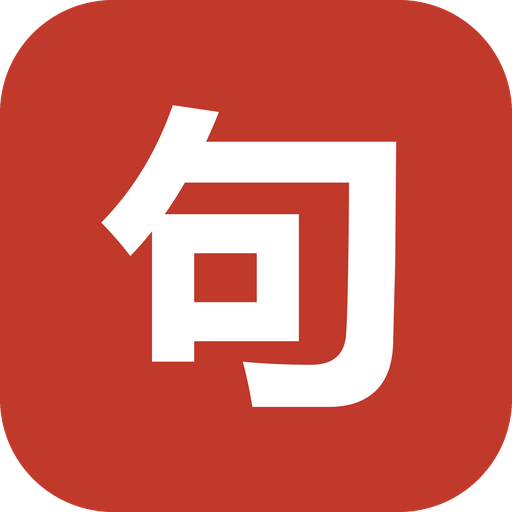
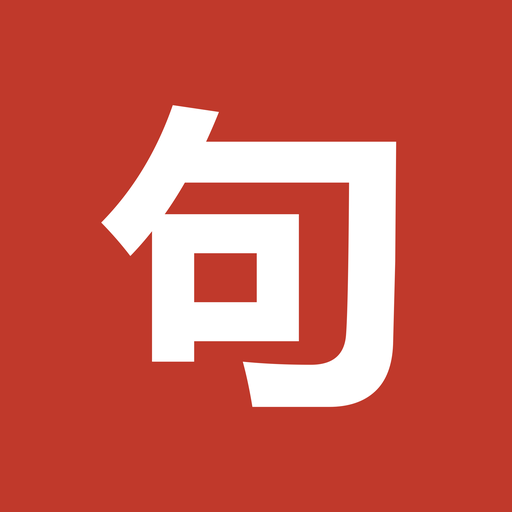
Make the website an installable, offline-capable web app
- Web app manifest, home-screen icons and iOS meta tags for a full-screen launch
- Service worker caches the app shell and built files (network first for pages,
  cache first for hashed assets) and works under the /Dargos-Ju/ Pages path;
  not registered inside the Android app
- Stay signed in offline when the access token has expired
- "Install on your iPhone" hint for Safari users

diff --git a/public/sw.js b/public/sw.js
@@ -1,0 +1,93 @@
+// Offline support for the website / home-screen app (not used inside the Android app).
+//
+// - Pages: network first, falling back to the cached app shell when offline.
+// - Built files (./assets/*, hashed and never change): cache first.
+// - Everything else on this site (icons, dictionary): cache first, filled on use.
+// - Supabase and other sites are never cached; the app keeps progress in IndexedDB and syncs
+//   queued reviews itself when the connection returns.
+//
+// When a new version of the app shell is fetched, its assets are cached and assets from older
+// versions are deleted.
+
+const CACHE = 'dargos-ju-v1';
+const SHELL = './';
+
+const assetUrls = (html) =>
+  [...html.matchAll(/(?:src|href)="(\.\/assets\/[^"]+)"/g)].map((m) => new URL(m[1], self.registration.scope).href);
+
+async function cacheShell(response) {
+  const cache = await caches.open(CACHE);
+  const html = await response.clone().text();
+  const wanted = assetUrls(html);
+  await cache.put(new URL(SHELL, self.registration.scope).href, response);
+  await Promise.all(
+    wanted.map(async (url) => {
+      if (!(await cache.match(url))) {
+        const res = await fetch(url);
+        if (res.ok) await cache.put(url, res);
+      }
+    }),
+  );
+  // Drop built files that the current version no longer uses.
+  const keep = new Set(wanted);
+  for (const req of await cache.keys()) {
+    if (req.url.includes('/assets/') && !keep.has(req.url)) await cache.delete(req);
+  }
+}
+
+self.addEventListener('install', (event) => {
+  event.waitUntil(
+    (async () => {
+      const res = await fetch(new URL(SHELL, self.registration.scope).href, { cache: 'no-cache' });
+      if (res.ok) await cacheShell(res);
+      const cache = await caches.open(CACHE);
+      await cache.addAll(['./manifest.webmanifest', './icon.svg', './icon-192.png', './apple-touch-icon.png']).catch(() => undefined);
+      await self.skipWaiting();
+    })(),
+  );
+});
+
+self.addEventListener('activate', (event) => {
+  event.waitUntil(
+    (async () => {
+      for (const key of await caches.keys()) if (key !== CACHE) await caches.delete(key);
+      await self.clients.claim();
+    })(),
+  );
+});
+
+self.addEventListener('fetch', (event) => {
+  const req = event.request;
+  if (req.method !== 'GET') return;
+  const url = new URL(req.url);
+  if (url.origin !== self.location.origin) return;
+
+  if (req.mode === 'navigate') {
+    event.respondWith(
+      (async () => {
+        try {
+          const res = await fetch(req, { cache: 'no-cache' });
+          if (res.ok) event.waitUntil(cacheShell(res.clone()));
+          return res;
+        } catch {
+          const cached = await caches.match(new URL(SHELL, self.registration.scope).href);
+          return cached ?? Response.error();
+        }
+      })(),
+    );
+    return;
+  }
+
+  event.respondWith(
+    (async () => {
+      const cached = await caches.match(req);
+      if (cached) return cached;
+      const res = await fetch(req);
+      if (res.ok && res.type === 'basic') {
+        const cache = await caches.open(CACHE);
+        cache.put(req, res.clone());
+      }
+      return res;
+    })(),
+  );
+});

diff --git a/src/lib/auth.ts b/src/lib/auth.ts
@@ -1,6 +1,7 @@
 import { useEffect, useState } from 'react';
 import type { Session } from '@supabase/supabase-js';
 import { supabase } from './supabase';
+import { SUPABASE_URL } from '../config';
 import { clearUser, loadUser } from './store';
 import { pullRemote, pushPending } from './sync';
 import { loadRemoteContent } from './content';
@@ -9,6 +10,21 @@ export interface AuthState {
   status: 'loading' | 'signed-out' | 'signed-in';
   session: Session | null;
   isAdmin: boolean;
+}
+
+/**
+ * The session saved on this device, even if its access token has expired. Used offline: Supabase
+ * can't refresh an expired token without a connection and would otherwise report "signed out".
+ */
+function storedSession(): Session | null {
+  try {
+    const key = `sb-${new URL(SUPABASE_URL).hostname.split('.')[0]}-auth-token`;
+    const raw = localStorage.getItem(key);
+    const s = raw ? (JSON.parse(raw) as Session) : null;
+    return s?.user?.id ? s : null;
+  } catch {
+    return null;
+  }
 }
 
 async function checkAdmin(userId: string): Promise<boolean> {
@@ -49,8 +65,10 @@ export function useAuth(): AuthState {
         .then((isAdmin) => setState((s) => ({ ...s, isAdmin })))
         .catch(() => undefined);
     };
-    supabase.auth.getSession().then(({ data }) => apply(data.session));
-    const { data: sub } = supabase.auth.onAuthStateChange((_event, session) => {
+    supabase.auth.getSession().then(({ data, error }) => apply(data.session ?? (error && (error.name === 'AuthRetryableFetchError' || !navigator.onLine) ? storedSession() : null)));
+    const { data: sub } = supabase.auth.onAuthStateChange((event, session) => {
+      // Offline token refreshes fail without signing out; keep studying with the saved session.
+      if (!session && event !== 'SIGNED_OUT' && currentUser) return;
       // Defer so Supabase's internal lock is released before we query.
       setTimeout(() => apply(session), 0);
     });

diff --git a/src/components/InstallHint.tsx b/src/components/InstallHint.tsx
@@ -1,0 +1,45 @@
+import { useState } from 'react';
+import { Capacitor } from '@capacitor/core';
+
+const KEY = 'dj:install-hint-dismissed';
+
+function isIosSafariTab(): boolean {
+  if (Capacitor.isNativePlatform()) return false;
+  const ua = navigator.userAgent;
+  const ios = /iPhone|iPad|iPod/.test(ua) || (ua.includes('Macintosh') && navigator.maxTouchPoints > 1);
+  const standalone = (navigator as Navigator & { standalone?: boolean }).standalone === true || matchMedia('(display-mode: standalone)').matches;
+  return ios && !standalone;
+}
+
+/** Tells iPhone and iPad users in Safari how to add the app to their home screen. */
+export default function InstallHint() {
+  const [hidden, setHidden] = useState(() => {
+    try {
+      return localStorage.getItem(KEY) === '1' || !isIosSafariTab();
+    } catch {
+      return !isIosSafariTab();
+    }
+  });
+  if (hidden) return null;
+  const dismiss = () => {
+    try {
+      localStorage.setItem(KEY, '1');
+    } catch {
+      /* private mode */
+    }
+    setHidden(true);
+  };
+  return (
+    <div className="banner" style={{ background: 'var(--surface-2)' }}>
+      <div className="spread" style={{ alignItems: 'flex-start' }}>
+        <div>
+          <strong>Install on your iPhone</strong>
+          <div className="small" style={{ marginTop: 2 }}>
+            Tap the Share button <span aria-hidden>⎋</span> in Safari, then <strong>Add to Home Screen</strong>. It opens full screen and works offline.
+          </div>
+        </div>
+        <button className="btn ghost sm" onClick={dismiss} aria-label="Dismiss">✕</button>
+      </div>
+    </div>
+  );
+}

diff --git a/index.html b/index.html
@@ -3,8 +3,16 @@
   <head>
     <meta charset="UTF-8" />
     <meta name="viewport" content="width=device-width, initial-scale=1.0, viewport-fit=cover" />
-    <meta name="theme-color" content="#b23a2e" />
+    <meta name="theme-color" content="#c0392b" />
+    <meta name="description" content="Learn Chinese one sentence at a time." />
     <link rel="icon" href="./icon.svg" type="image/svg+xml" />
+    <link rel="manifest" href="./manifest.webmanifest" />
+    <!-- iPhone / iPad home screen app -->
+    <link rel="apple-touch-icon" href="./apple-touch-icon.png" />
+    <meta name="apple-mobile-web-app-capable" content="yes" />
+    <meta name="mobile-web-app-capable" content="yes" />
+    <meta name="apple-mobile-web-app-title" content="Dargos Ju" />
+    <meta name="apple-mobile-web-app-status-bar-style" content="default" />
     <title>Dargos Ju</title>
   </head>
   <body>

diff --git a/src/main.tsx b/src/main.tsx
@@ -1,8 +1,16 @@
 import { StrictMode } from 'react';
 import { createRoot } from 'react-dom/client';
 import { HashRouter } from 'react-router-dom';
+import { Capacitor } from '@capacitor/core';
 import App from './App';
 import './styles.css';
+
+// Offline support for the website and home-screen app. The Android app bundles its files already.
+if (import.meta.env.PROD && 'serviceWorker' in navigator && !Capacitor.isNativePlatform()) {
+  window.addEventListener('load', () => {
+    navigator.serviceWorker.register('./sw.js').catch((e) => console.warn('Offline support unavailable', e));
+  });
+}
 
 createRoot(document.getElementById('root')!).render(
   <StrictMode>

diff --git a/src/pages/Study.tsx b/src/pages/Study.tsx
@@ -5,6 +5,7 @@ import { updateSettings, useStore } from '../lib/store';
 import { studyCounts } from '../lib/srs';
 import { streak } from '../lib/stats';
 import LevelPicker from '../components/LevelPicker';
+import InstallHint from '../components/InstallHint';
 import type { Settings } from '../types';
 
 export default function Study() {
@@ -39,6 +40,8 @@ export default function Study() {
           {days > 0 && <> · {days} day streak</>}
         </div>
       </header>
+
+      <InstallHint />
 
       <div className="card">
         <LevelPicker levels={content.levels} selected={levels} onChange={(studyLevels) => updateSettings({ studyLevels })} />

diff --git a/src/lib/tts.ts b/src/lib/tts.ts
@@ -119,7 +119,10 @@ export async function speak(text: string, rate = 0.85): Promise<void> {
       u.rate = rate;
       u.volume = 1;
       u.onend = () => resolve();
-      u.onerror = (e) => (e.error === 'interrupted' || e.error === 'canceled' ? resolve() : reject(new Error(e.error)));
+      u.onerror = (e) =>
+        e.error === 'interrupted' || e.error === 'canceled'
+          ? resolve()
+          : reject(new Error(e.error === 'not-allowed' ? 'Tap Play to hear the sentence.' : e.error));
       synth.speak(u);
     };
     // Chrome sometimes drops an utterance queued right after cancel().

diff --git a/scripts/make-icons.py b/scripts/make-icons.py
@@ -47,7 +47,17 @@ for name, k in DENSITIES.items():
     '<?xml version="1.0" encoding="utf-8"?>\n<resources>\n    <color name="ic_launcher_background">#C0392B</color>\n</resources>\n',
     encoding="utf-8",
 )
-render(512, "square").save("public/icon-512.png")
+# Web app (PWA) icons: plain squares (iOS rounds the corners itself) and a maskable icon with padding.
+def full_square(size: int, scale: float) -> Image.Image:
+    big = size * 4
+    img = Image.new("RGBA", (big, big), RED)
+    glyph(img, scale)
+    return img.resize((size, size), Image.LANCZOS)
+
+full_square(180, 0.62).convert("RGB").save("public/apple-touch-icon.png")
+full_square(192, 0.62).save("public/icon-192.png")
+full_square(512, 0.62).save("public/icon-512.png")
+full_square(512, 0.46).save("public/icon-maskable-512.png")
 print("Icons written.")
 
 # Launch screen: the icon centred on the app background, at each existing splash size.

diff --git a/README.md b/README.md
@@ -25,6 +25,12 @@ npm test
 npm run build      # outputs dist/
 ```
 
+## iPhone and offline use
+
+The website is an installable web app. On iPhone or iPad, open it in Safari, tap Share, then
+**Add to Home Screen**. A service worker (`public/sw.js`) caches the app so it opens and works
+offline; reviews are stored on the device and synced when the connection returns.
+
 ## Android
 
 Needs Android Studio's SDK (`ANDROID_HOME`) and JDK 21 (`JAVA_HOME`).
